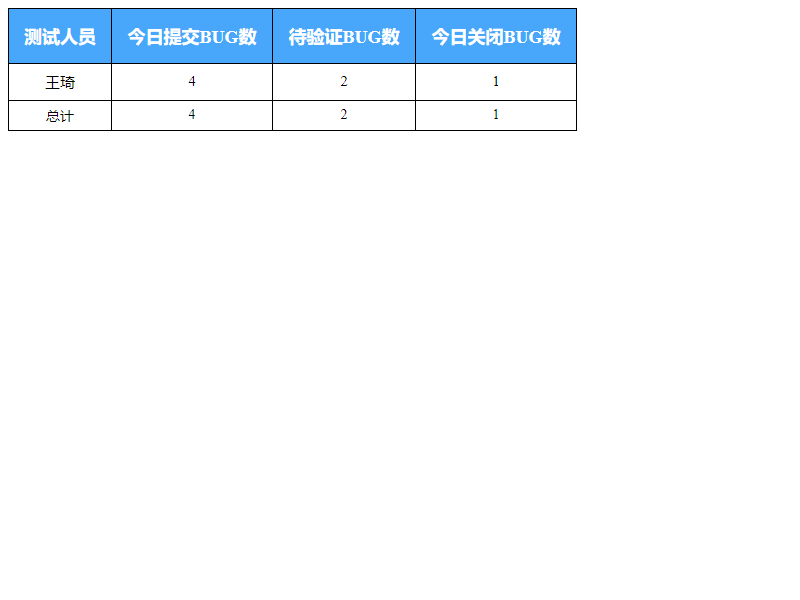
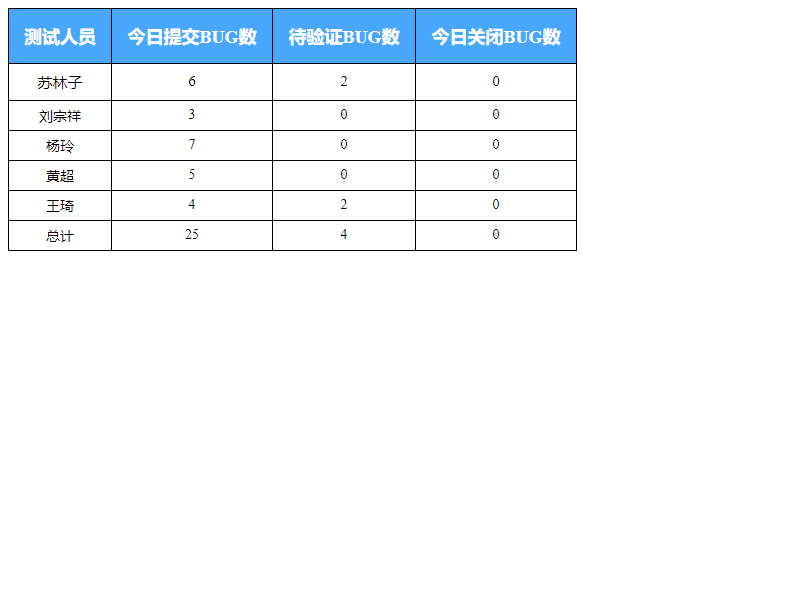
2021/5/17

diff --git a/Tapd/html/developerHtml.html b/Tapd/html/developerHtml.html
@@ -5,6 +5,6 @@
     <title>模板</title>
 </head>
 <body>
-<table style="border-collapse:collapse;word-break:keep-all;white-space:nowrap;font-size:14px;"><tr style="color:#fff;background-color:#48a6fb;font-size:18px;"><th style="border-color:#000;border-width:1px;border-style:solid;padding:15px;text-align:center;">开发</th><th style="border-color:#000;border-width:1px;border-style:solid;padding:15px;text-align:center;">今日解决BUG</th><th style="border-color:#000;border-width:1px;border-style:solid;padding:15px;text-align:center;">待解决BUG</th><th style="border-color:#000;border-width:1px;border-style:solid;padding:15px;text-align:center;">今日新增BUG</th><th style="border-color:#000;border-width:1px;border-style:solid;padding:15px;text-align:center;">累计新增BUG</th><th style="border-color:#000;border-width:1px;border-style:solid;padding:15px;text-align:center;">累计解决BUG</th></tr><tr><td style="border-color:#000;border-width:1px;border-style:solid;padding:8px;text-align:center;font-size:15px;">李雄</td><td style="border-color:#000;border-width:1px;border-style:solid;padding:8px;text-align:center;font-size:15px;">1</td><td style="border-color:#000;border-width:1px;border-style:solid;padding:8px;text-align:center;font-size:15px;">0</td><td style="border-color:#000;border-width:1px;border-style:solid;padding:8px;text-align:center;font-size:15px;">1</td><td style="border-color:#000;border-width:1px;border-style:solid;padding:8px;text-align:center;font-size:15px;">1</td><td style="border-color:#000;border-width:1px;border-style:solid;padding:8px;text-align:center;font-size:15px;">1</td></tr><tr><td style="border-color:#000;border-width:1px;border-style:solid;padding:5px;text-align:center;">王建安</td><td style="border-color:#000;border-width:1px;border-style:solid;padding:5px;text-align:center;">0</td><td style="border-color:#000;border-width:1px;border-style:solid;padding:5px;text-align:center;">0</td><td style="border-color:#000;border-width:1px;border-style:solid;padding:5px;text-align:center;">0</td><td style="border-color:#000;border-width:1px;border-style:solid;padding:5px;text-align:center;">1</td><td style="border-color:#000;border-width:1px;border-style:solid;padding:5px;text-align:center;">1</td></tr><tr><td style="border-color:#000;border-width:1px;border-style:solid;padding:5px;text-align:center;">王瑞臻</td><td style="border-color:#000;border-width:1px;border-style:solid;padding:5px;text-align:center;">0</td><td style="border-color:#000;border-width:1px;border-style:solid;padding:5px;text-align:center;">2</td><td style="border-color:#000;border-width:1px;border-style:solid;padding:5px;text-align:center;">2</td><td style="border-color:#000;border-width:1px;border-style:solid;padding:5px;text-align:center;">4</td><td style="border-color:#000;border-width:1px;border-style:solid;padding:5px;text-align:center;">2</td></tr><tr><td style="border-color:#000;border-width:1px;border-style:solid;padding:5px;text-align:center;">总计</td><td style="border-color:#000;border-width:1px;border-style:solid;padding:5px;text-align:center;">1</td><td style="border-color:#000;border-width:1px;border-style:solid;padding:5px;text-align:center;">2</td><td style="border-color:#000;border-width:1px;border-style:solid;padding:5px;text-align:center;">3</td><td style="border-color:#000;border-width:1px;border-style:solid;padding:5px;text-align:center;">6</td><td style="border-color:#000;border-width:1px;border-style:solid;padding:5px;text-align:center;">4</td></tr></table>
+<table style="border-collapse:collapse;word-break:keep-all;white-space:nowrap;font-size:14px;"><tr style="color:#fff;background-color:#48a6fb;font-size:18px;"><th style="border-color:#000;border-width:1px;border-style:solid;padding:15px;text-align:center;">开发</th><th style="border-color:#000;border-width:1px;border-style:solid;padding:15px;text-align:center;">今日解决BUG</th><th style="border-color:#000;border-width:1px;border-style:solid;padding:15px;text-align:center;">待解决BUG</th><th style="border-color:#000;border-width:1px;border-style:solid;padding:15px;text-align:center;">今日新增BUG</th><th style="border-color:#000;border-width:1px;border-style:solid;padding:15px;text-align:center;">累计新增BUG</th><th style="border-color:#000;border-width:1px;border-style:solid;padding:15px;text-align:center;">累计解决BUG</th></tr><tr><td style="border-color:#000;border-width:1px;border-style:solid;padding:8px;text-align:center;font-size:15px;">欧阳承珺</td><td style="border-color:#000;border-width:1px;border-style:solid;padding:8px;text-align:center;font-size:15px;">0</td><td style="border-color:#000;border-width:1px;border-style:solid;padding:8px;text-align:center;font-size:15px;">4</td><td style="border-color:#000;border-width:1px;border-style:solid;padding:8px;text-align:center;font-size:15px;">3</td><td style="border-color:#000;border-width:1px;border-style:solid;padding:8px;text-align:center;font-size:15px;">4</td><td style="border-color:#000;border-width:1px;border-style:solid;padding:8px;text-align:center;font-size:15px;">0</td></tr><tr><td style="border-color:#000;border-width:1px;border-style:solid;padding:5px;text-align:center;">张夏泉</td><td style="border-color:#000;border-width:1px;border-style:solid;padding:5px;text-align:center;">2</td><td style="border-color:#000;border-width:1px;border-style:solid;padding:5px;text-align:center;">0</td><td style="border-color:#000;border-width:1px;border-style:solid;padding:5px;text-align:center;">2</td><td style="border-color:#000;border-width:1px;border-style:solid;padding:5px;text-align:center;">2</td><td style="border-color:#000;border-width:1px;border-style:solid;padding:5px;text-align:center;">2</td></tr><tr><td style="border-color:#000;border-width:1px;border-style:solid;padding:5px;text-align:center;">张科君</td><td style="border-color:#000;border-width:1px;border-style:solid;padding:5px;text-align:center;">0</td><td style="border-color:#000;border-width:1px;border-style:solid;padding:5px;text-align:center;">1</td><td style="border-color:#000;border-width:1px;border-style:solid;padding:5px;text-align:center;">1</td><td style="border-color:#000;border-width:1px;border-style:solid;padding:5px;text-align:center;">1</td><td style="border-color:#000;border-width:1px;border-style:solid;padding:5px;text-align:center;">0</td></tr><tr><td style="border-color:#000;border-width:1px;border-style:solid;padding:5px;text-align:center;">边家家</td><td style="border-color:#000;border-width:1px;border-style:solid;padding:5px;text-align:center;">0</td><td style="border-color:#000;border-width:1px;border-style:solid;padding:5px;text-align:center;">2</td><td style="border-color:#000;border-width:1px;border-style:solid;padding:5px;text-align:center;">2</td><td style="border-color:#000;border-width:1px;border-style:solid;padding:5px;text-align:center;">2</td><td style="border-color:#000;border-width:1px;border-style:solid;padding:5px;text-align:center;">0</td></tr><tr><td style="border-color:#000;border-width:1px;border-style:solid;padding:5px;text-align:center;">杨宇凡</td><td style="border-color:#000;border-width:1px;border-style:solid;padding:5px;text-align:center;">0</td><td style="border-color:#000;border-width:1px;border-style:solid;padding:5px;text-align:center;">3</td><td style="border-color:#000;border-width:1px;border-style:solid;padding:5px;text-align:center;">3</td><td style="border-color:#000;border-width:1px;border-style:solid;padding:5px;text-align:center;">3</td><td style="border-color:#000;border-width:1px;border-style:solid;padding:5px;text-align:center;">0</td></tr><tr><td style="border-color:#000;border-width:1px;border-style:solid;padding:5px;text-align:center;">董洲</td><td style="border-color:#000;border-width:1px;border-style:solid;padding:5px;text-align:center;">0</td><td style="border-color:#000;border-width:1px;border-style:solid;padding:5px;text-align:center;">4</td><td style="border-color:#000;border-width:1px;border-style:solid;padding:5px;text-align:center;">4</td><td style="border-color:#000;border-width:1px;border-style:solid;padding:5px;text-align:center;">4</td><td style="border-color:#000;border-width:1px;border-style:solid;padding:5px;text-align:center;">0</td></tr><tr><td style="border-color:#000;border-width:1px;border-style:solid;padding:5px;text-align:center;">吴吉</td><td style="border-color:#000;border-width:1px;border-style:solid;padding:5px;text-align:center;">0</td><td style="border-color:#000;border-width:1px;border-style:solid;padding:5px;text-align:center;">3</td><td style="border-color:#000;border-width:1px;border-style:solid;padding:5px;text-align:center;">3</td><td style="border-color:#000;border-width:1px;border-style:solid;padding:5px;text-align:center;">3</td><td style="border-color:#000;border-width:1px;border-style:solid;padding:5px;text-align:center;">0</td></tr><tr><td style="border-color:#000;border-width:1px;border-style:solid;padding:5px;text-align:center;">贺尹红</td><td style="border-color:#000;border-width:1px;border-style:solid;padding:5px;text-align:center;">0</td><td style="border-color:#000;border-width:1px;border-style:solid;padding:5px;text-align:center;">2</td><td style="border-color:#000;border-width:1px;border-style:solid;padding:5px;text-align:center;">2</td><td style="border-color:#000;border-width:1px;border-style:solid;padding:5px;text-align:center;">2</td><td style="border-color:#000;border-width:1px;border-style:solid;padding:5px;text-align:center;">0</td></tr><tr><td style="border-color:#000;border-width:1px;border-style:solid;padding:5px;text-align:center;">文玉婷</td><td style="border-color:#000;border-width:1px;border-style:solid;padding:5px;text-align:center;">2</td><td style="border-color:#000;border-width:1px;border-style:solid;padding:5px;text-align:center;">0</td><td style="border-color:#000;border-width:1px;border-style:solid;padding:5px;text-align:center;">2</td><td style="border-color:#000;border-width:1px;border-style:solid;padding:5px;text-align:center;">2</td><td style="border-color:#000;border-width:1px;border-style:solid;padding:5px;text-align:center;">2</td></tr><tr><td style="border-color:#000;border-width:1px;border-style:solid;padding:5px;text-align:center;">总计</td><td style="border-color:#000;border-width:1px;border-style:solid;padding:5px;text-align:center;">4</td><td style="border-color:#000;border-width:1px;border-style:solid;padding:5px;text-align:center;">19</td><td style="border-color:#000;border-width:1px;border-style:solid;padding:5px;text-align:center;">22</td><td style="border-color:#000;border-width:1px;border-style:solid;padding:5px;text-align:center;">23</td><td style="border-color:#000;border-width:1px;border-style:solid;padding:5px;text-align:center;">4</td></tr></table>
 </body>
 </html>

diff --git a/Tapd/html/testerHtml.html b/Tapd/html/testerHtml.html
@@ -5,6 +5,6 @@
     <title>模板</title>
 </head>
 <body>
-<table style="border-collapse:collapse;word-break:keep-all;white-space:nowrap;font-size:14px;"><tr style="color:#fff;background-color:#48a6fb;font-size:18px;"><th style="border-color:#000;border-width:1px;border-style:solid;padding:15px;text-align:center;">测试人员</th><th style="border-color:#000;border-width:1px;border-style:solid;padding:15px;text-align:center;">今日提交BUG数</th><th style="border-color:#000;border-width:1px;border-style:solid;padding:15px;text-align:center;">待验证BUG数</th><th style="border-color:#000;border-width:1px;border-style:solid;padding:15px;text-align:center;">今日关闭BUG数</th></tr><tr><td style="border-color:#000;border-width:1px;border-style:solid;padding:8px;text-align:center;font-size:15px;">王琦</td><td style="border-color:#000;border-width:1px;border-style:solid;padding:8px;text-align:center;font-size:15px;">4</td><td style="border-color:#000;border-width:1px;border-style:solid;padding:8px;text-align:center;font-size:15px;">2</td><td style="border-color:#000;border-width:1px;border-style:solid;padding:8px;text-align:center;font-size:15px;">1</td></tr><tr><td style="border-color:#000;border-width:1px;border-style:solid;padding:5px;text-align:center;">总计</td><td style="border-color:#000;border-width:1px;border-style:solid;padding:5px;text-align:center;">4</td><td style="border-color:#000;border-width:1px;border-style:solid;padding:5px;text-align:center;">2</td><td style="border-color:#000;border-width:1px;border-style:solid;padding:5px;text-align:center;">1</td></tr></table>
+<table style="border-collapse:collapse;word-break:keep-all;white-space:nowrap;font-size:14px;"><tr style="color:#fff;background-color:#48a6fb;font-size:18px;"><th style="border-color:#000;border-width:1px;border-style:solid;padding:15px;text-align:center;">测试人员</th><th style="border-color:#000;border-width:1px;border-style:solid;padding:15px;text-align:center;">今日提交BUG数</th><th style="border-color:#000;border-width:1px;border-style:solid;padding:15px;text-align:center;">待验证BUG数</th><th style="border-color:#000;border-width:1px;border-style:solid;padding:15px;text-align:center;">今日关闭BUG数</th></tr><tr><td style="border-color:#000;border-width:1px;border-style:solid;padding:8px;text-align:center;font-size:15px;">苏林子</td><td style="border-color:#000;border-width:1px;border-style:solid;padding:8px;text-align:center;font-size:15px;">6</td><td style="border-color:#000;border-width:1px;border-style:solid;padding:8px;text-align:center;font-size:15px;">2</td><td style="border-color:#000;border-width:1px;border-style:solid;padding:8px;text-align:center;font-size:15px;">0</td></tr><tr><td style="border-color:#000;border-width:1px;border-style:solid;padding:5px;text-align:center;">刘宗祥</td><td style="border-color:#000;border-width:1px;border-style:solid;padding:5px;text-align:center;">3</td><td style="border-color:#000;border-width:1px;border-style:solid;padding:5px;text-align:center;">0</td><td style="border-color:#000;border-width:1px;border-style:solid;padding:5px;text-align:center;">0</td></tr><tr><td style="border-color:#000;border-width:1px;border-style:solid;padding:5px;text-align:center;">杨玲</td><td style="border-color:#000;border-width:1px;border-style:solid;padding:5px;text-align:center;">7</td><td style="border-color:#000;border-width:1px;border-style:solid;padding:5px;text-align:center;">0</td><td style="border-color:#000;border-width:1px;border-style:solid;padding:5px;text-align:center;">0</td></tr><tr><td style="border-color:#000;border-width:1px;border-style:solid;padding:5px;text-align:center;">黄超</td><td style="border-color:#000;border-width:1px;border-style:solid;padding:5px;text-align:center;">5</td><td style="border-color:#000;border-width:1px;border-style:solid;padding:5px;text-align:center;">0</td><td style="border-color:#000;border-width:1px;border-style:solid;padding:5px;text-align:center;">0</td></tr><tr><td style="border-color:#000;border-width:1px;border-style:solid;padding:5px;text-align:center;">王琦</td><td style="border-color:#000;border-width:1px;border-style:solid;padding:5px;text-align:center;">4</td><td style="border-color:#000;border-width:1px;border-style:solid;padding:5px;text-align:center;">2</td><td style="border-color:#000;border-width:1px;border-style:solid;padding:5px;text-align:center;">0</td></tr><tr><td style="border-color:#000;border-width:1px;border-style:solid;padding:5px;text-align:center;">总计</td><td style="border-color:#000;border-width:1px;border-style:solid;padding:5px;text-align:center;">25</td><td style="border-color:#000;border-width:1px;border-style:solid;padding:5px;text-align:center;">4</td><td style="border-color:#000;border-width:1px;border-style:solid;padding:5px;text-align:center;">0</td></tr></table>
 </body>
 </html>

diff --git a/Tapd/main.py b/Tapd/main.py
@@ -162,14 +162,14 @@ if __name__ == '__main__':
     # 脚本初始化(注意：首次执行需要清空record.json文件)
 
     # 发现版本
-    version = '数据权限优化版本'
+    version = '2.1.7.5小版本'
     # 迭代
-    iteration = 1167410840001000247
+    iteration = 1167410840001000282
     username = '17600445140'
     password = 'Hc17600445140'
-    roboturl = 'https://qyapi.weixin.qq.com/cgi-bin/webhook/send?key=3897849e-de5a-419a-840f-d32c91e32e08'
-    developer = ["李雄", "王建安", "王瑞臻"]
-    tester = ["王琦"]
+    roboturl = 'https://qyapi.weixin.qq.com/cgi-bin/webhook/send?key=516c997e-2afb-4df3-95b6-f08566956c92'
+    developer = ["欧阳承珺", "张夏泉", "张科君", "边家家", "杨宇凡", "董洲", "吴吉", "贺尹红", "文玉婷"]
+    tester = ["苏林子", "刘宗祥", "杨玲", "黄超", "王琦"]
 
     today = strftime("%Y-%m-%d", localtime(time()))
 

diff --git a/dataStructure/Recursion/recursion.py b/dataStructure/Recursion/recursion.py
@@ -1,0 +1,24 @@
+# -*- coding:utf-8 -*-
+
+def f1(n):
+
+    if n == 1:
+        return 1
+
+    return f1(n-1)+1
+
+
+def f2(n):
+
+    if n == 1:
+        return 1
+
+    if n == 2:
+        return 1
+
+    return f2(n-1) + f2(n-2)
+
+if __name__ == '__main__':
+    print(f1(4))
+    print(f2(4))
+
